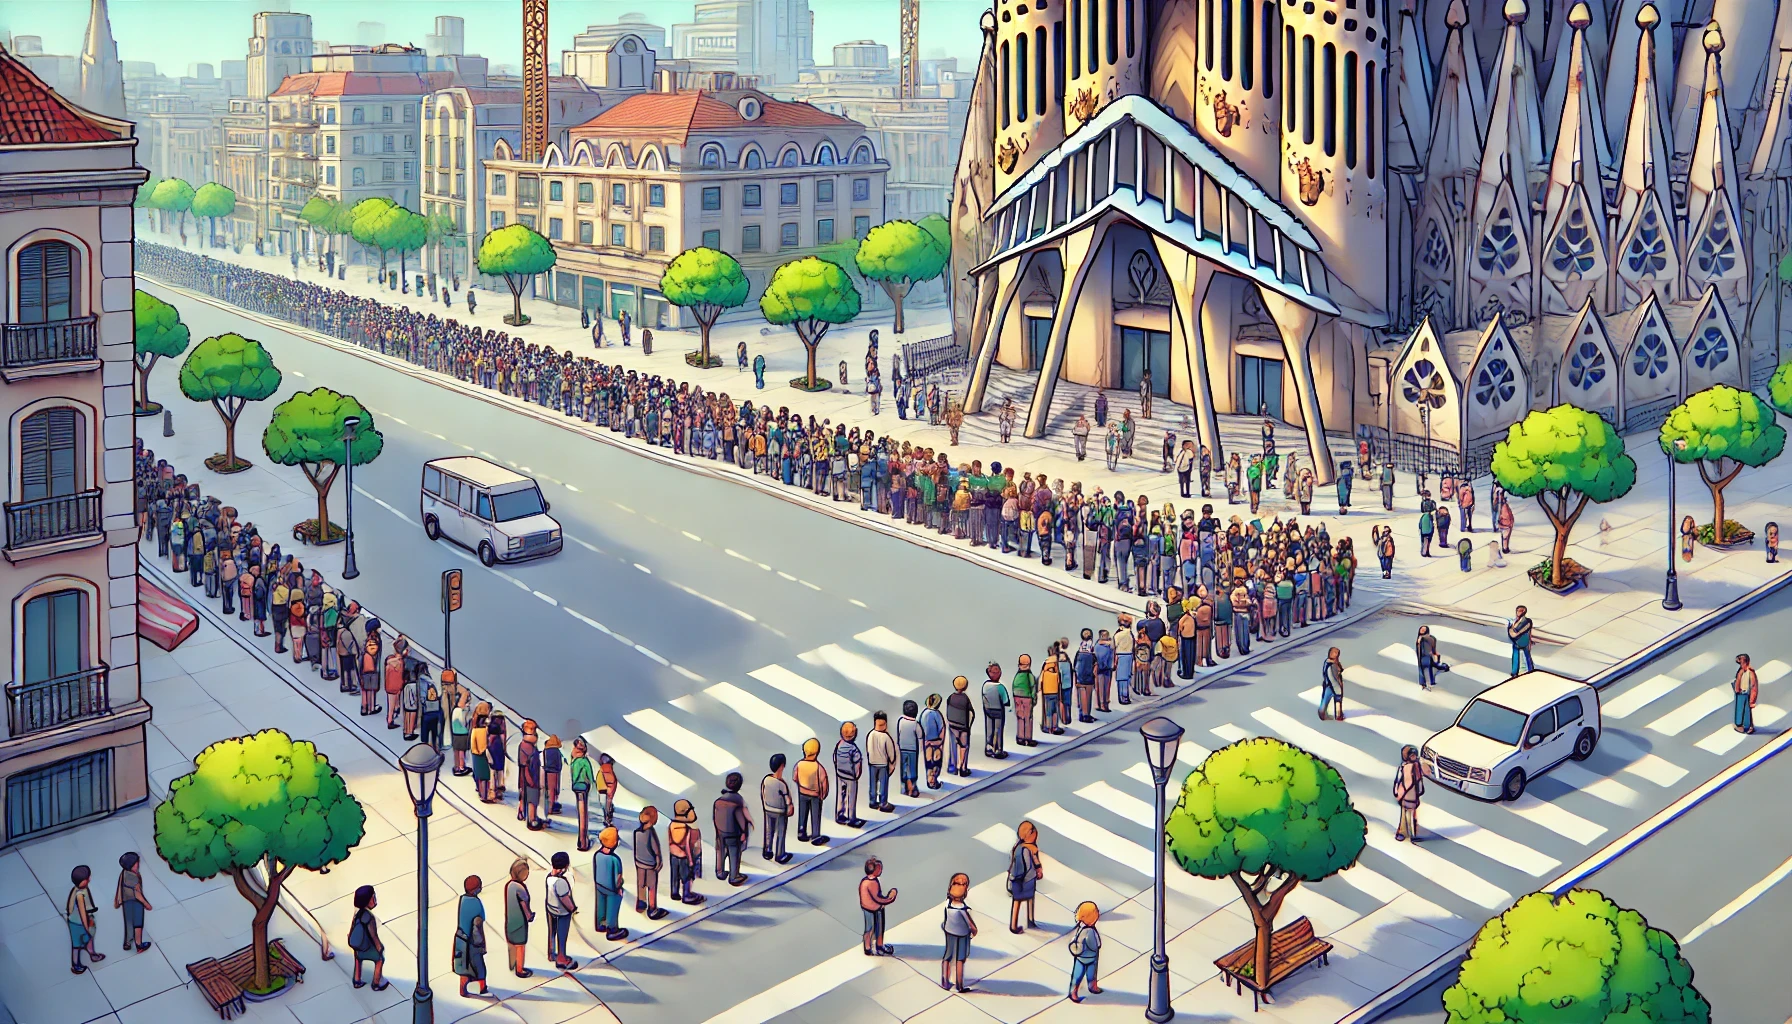
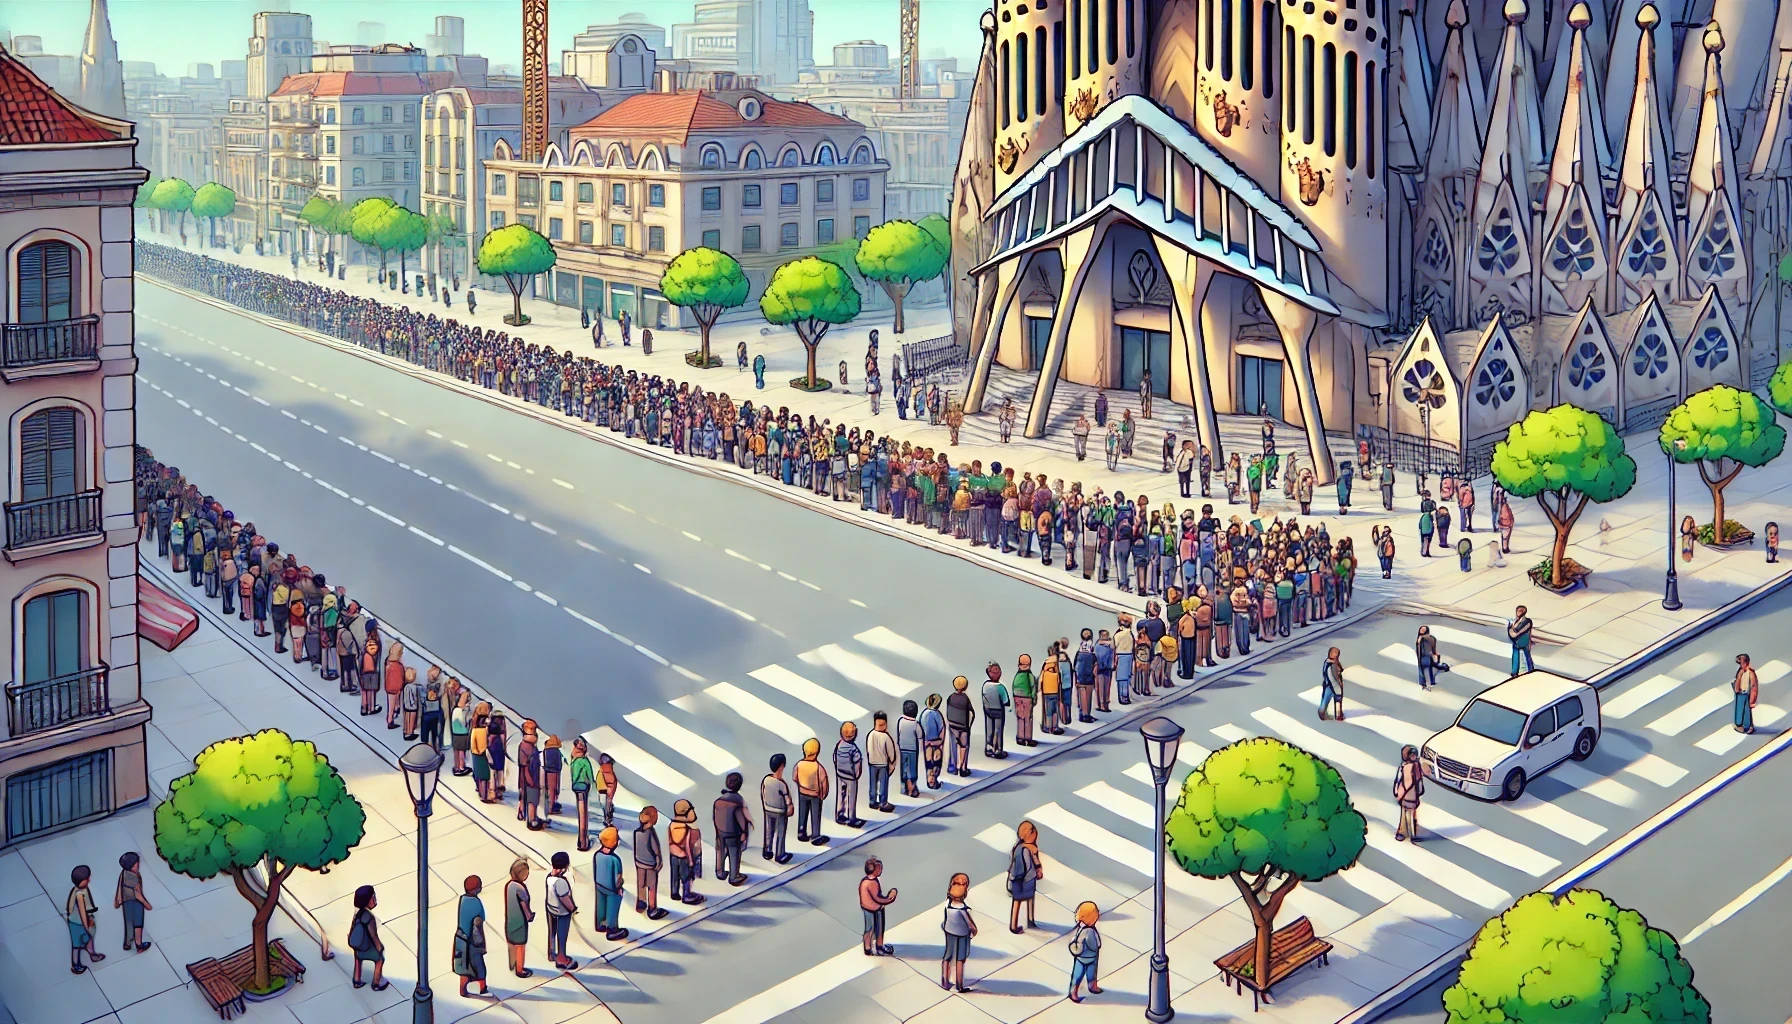
added camera object

Changed region(s): [[0.0312, 0.2812, 0.3125, 0.6875]]

diff --git a/src/game.py b/src/game.py
@@ -1,45 +1,80 @@
 import pygame
 from scene import Scene
 from character import Character
+from object import Object
 from utils import *
 
 ASSETS_DIR = "../assets"
 CHARACTERS_DIR = f"{ASSETS_DIR}/characters"
 MAIN_CHARACTER_DIR = f"{CHARACTERS_DIR}/main"
 BACKGROUNDS_DIR = f"{ASSETS_DIR}/backgrounds"
+OBJECTS_DIR = f"{ASSETS_DIR}/objects"
 
 MAIN_CHARACTER_WALKING = f"{MAIN_CHARACTER_DIR}/walking_left"
 SAGRADA_FAMILIA_BCK = f"{BACKGROUNDS_DIR}/sagrada_familia.webp"
+CAR_IMG = f"{OBJECTS_DIR}/sf-car.png"
 
-
-# Ejemplo de uso
+# Inicializamos pygame
 pygame.init()
-screen = pygame.display.set_mode((1200, 800))
+sf_background = pygame.image.load(SAGRADA_FAMILIA_BCK)
+WORLD_WIDTH = sf_background.get_width()
+WORLD_HEIGHT = sf_background.get_height()
+CAMERA_WIDTH = 600
+CAMERA_HEIGHT = 600
+screen = pygame.display.set_mode((CAMERA_WIDTH, CAMERA_HEIGHT))
+world = pygame.Surface((WORLD_WIDTH, WORLD_HEIGHT))
+camera = pygame.Rect(0, 0, CAMERA_WIDTH, CAMERA_HEIGHT)
 
 # Crear una escena con una imagen de fondo
-scene = Scene(pygame.image.load(SAGRADA_FAMILIA_BCK))
+scene = Scene(sf_background)
 # Añadir un área caminable (polígono de ejemplo)
 scene.set_walkable_area([(495, 599), (682, 761), (1039, 605), (770, 516)])
+# Añade un auto a la escena
+car_obj = Object(CAR_IMG)
+car_position = (700,700)
+scene.add_object(car_obj, car_position)
 # Crear y añadir un personaje a la escena
-character = Character(MAIN_CHARACTER_WALKING, (663, 647))
-scene.add_character(character, (663, 647))
+character = Character(MAIN_CHARACTER_WALKING)
+character_position = (409,421)
+scene.add_character(character, character_position)
+
 
 # Bucle principal del juego
 running = True
 while running:
+    
+    # Control the camera with arrow keys
+    keys = pygame.key.get_pressed()
+    if keys[pygame.K_LEFT]:
+        camera.x -= 5
+    if keys[pygame.K_RIGHT]:
+        camera.x += 5
+    if keys[pygame.K_UP]:
+        camera.y -= 5
+    if keys[pygame.K_DOWN]:
+        camera.y += 5
+    if camera.left < 0:
+        camera.left = 0
+    if camera.right > WORLD_WIDTH:
+        camera.right = WORLD_WIDTH
+    if camera.top < 0:
+        camera.top = 0
+    if camera.bottom > WORLD_HEIGHT:
+        camera.bottom = WORLD_HEIGHT
+        
     for event in pygame.event.get():
         if event.type == pygame.QUIT:
             running = False
         elif event.type == pygame.MOUSEBUTTONDOWN:
-            scene.handle_mouse_event(event.pos)
+            click_position = (event.pos[0] + camera.x, event.pos[1] + camera.y)
+            scene.handle_mouse_event(click_position)
     
     # Actualizar la escena
     scene.update()
-    
     # Dibujar la escena
-    scene.draw(screen)
+    scene.draw(world)
     
-    # Actualizar pantalla
+    screen.blit(world, (0, 0), camera)
     pygame.display.flip()
 
 pygame.quit()

diff --git a/src/test.py b/src/test.py
@@ -1,0 +1,80 @@
+import pygame
+
+# Initialize Pygame
+pygame.init()
+
+# Constants
+WORLD_WIDTH = 2000
+WORLD_HEIGHT = 1500
+CAMERA_WIDTH = 800
+CAMERA_HEIGHT = 600
+
+# Create the main game window
+screen = pygame.display.set_mode((CAMERA_WIDTH, CAMERA_HEIGHT))
+pygame.display.set_caption('Camera Example in Pygame')
+
+# Create the world surface (the "world" is larger than the screen)
+world = pygame.Surface((WORLD_WIDTH, WORLD_HEIGHT))
+
+# Define the camera view (initially positioned at (0, 0))
+camera = pygame.Rect(0, 0, CAMERA_WIDTH, CAMERA_HEIGHT)
+
+# Colors
+BLACK = (0, 0, 0)
+WHITE = (255, 255, 255)
+RED = (255, 0, 0)
+BLUE = (0, 0, 255)
+
+# Game loop flag
+running = True
+
+# Example positions and objects to render
+object_positions = [(100, 100), (400, 300), (1600, 1200), (1900, 1400)]
+object_size = 50
+
+# Main game loop
+while running:
+    for event in pygame.event.get():
+        if event.type == pygame.QUIT:
+            running = False
+    
+    # Control the camera with arrow keys
+    keys = pygame.key.get_pressed()
+    if keys[pygame.K_LEFT]:
+        camera.x -= 5
+    if keys[pygame.K_RIGHT]:
+        camera.x += 5
+    if keys[pygame.K_UP]:
+        camera.y -= 5
+    if keys[pygame.K_DOWN]:
+        camera.y += 5
+
+    # Limit the camera movement to the bounds of the world
+    if camera.left < 0:
+        camera.left = 0
+    if camera.right > WORLD_WIDTH:
+        camera.right = WORLD_WIDTH
+    if camera.top < 0:
+        camera.top = 0
+    if camera.bottom > WORLD_HEIGHT:
+        camera.bottom = WORLD_HEIGHT
+
+    # Fill the world with a background color
+    world.fill(WHITE)
+
+    # Draw example objects in the world
+    for position in object_positions:
+        pygame.draw.rect(world, RED, (position[0], position[1], object_size, object_size))
+
+    # Draw a "camera" view indicator on the world (just for reference)
+    pygame.draw.rect(world, BLUE, (camera.x, camera.y, camera.width, camera.height), 2)
+
+    # Blit the camera portion of the world to the screen
+    screen.blit(world, (0, 0), camera)
+
+    # Update the display
+    pygame.display.flip()
+
+# Quit Pygame
+pygame.quit()
+

diff --git a/src/scene.py b/src/scene.py
@@ -14,6 +14,7 @@ class Scene:
     
     def add_object(self, game_object, position):
         """Añade un objeto a la escena en una posición específica."""
+        game_object.position = position
         self.objects.append((game_object, position))
     
     def add_character(self, character, position):
@@ -27,7 +28,7 @@ class Scene:
         
         # Dibuja todos los objetos
         for game_object, position in self.objects:
-            game_object.draw(screen, position)
+            game_object.draw(screen)
         
         # Dibuja todos los personajes
         for character in self.characters:
@@ -48,6 +49,7 @@ class Scene:
                 main_character.move_to(position)
     
     def is_within_walkable_area(self, position):
+        return True
         """Verifica si una posición está dentro de alguna área caminable."""
         for polygon in self.walkable_areas:
             if is_inside_polygon(position, polygon):

diff --git a/src/object.py b/src/object.py
@@ -1,0 +1,15 @@
+import pygame
+
+class Object:
+    def __init__(self, image_path):
+        image = pygame.image.load(image_path).convert_alpha()  # Carga la imagen del objeto
+        new_size = (image.get_width() // 2, image.get_height() // 2)
+        self.image = pygame.transform.scale(image, new_size)
+        self.position = None
+        #self.rect = self.image.get_rect(center=self.position)  # Rectángulo de colisión
+    
+    def draw(self, screen):
+        """Dibuja el objeto en la pantalla."""
+        draw_position = self.position - pygame.Vector2(self.image.get_width() / 2, self.image.get_height())
+        screen.blit(self.image, draw_position)
+

diff --git a/src/character.py b/src/character.py
@@ -2,11 +2,11 @@ import pygame
 import os
 
 class Character:
-    def __init__(self, sprite_folder, position):
+    def __init__(self, sprite_folder):
         # Cargar las imágenes de la animación
         self.sprites = self.load_sprites(sprite_folder)
         self.current_frame = 0
-        self.position = pygame.Vector2(position)  # Posición actual del personaje (referencia en el centro inferior)
+        self.position = None
         self.target_position = self.position  # Posición objetivo (a dónde se moverá)
         self.speed = 0.5  # Velocidad de movimiento del personaje
         self.is_moving = False
